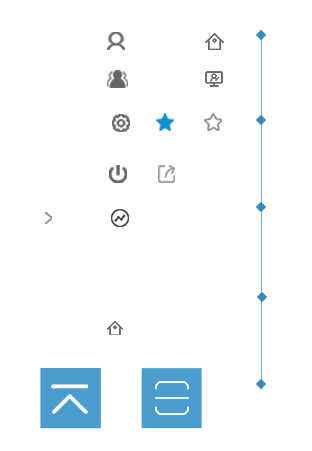
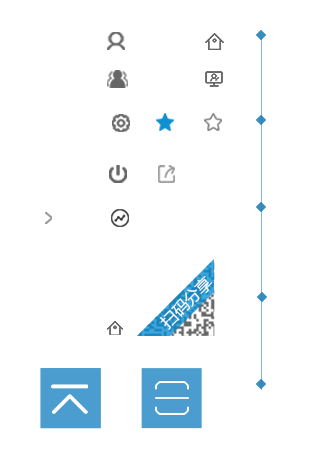
完成团队信息的样式

Changed region(s): [[0.4327, 0.5588, 0.6923, 0.745]]

diff --git a/_template/pl/fe/site/page/home/basic.css b/_template/pl/fe/site/page/home/basic.css
@@ -1,4 +1,4 @@
-.carousel{background:#fff;margin-bottom:15px;position:relative;}
+.carousel{background:#fff;position:relative;}
 .carousel-inner:before{content:'';position: absolute;top:0;left:0;z-index: 1;width:100%;height:100%;background: linear-gradient(to bottom, rgba(0,0,0,0) 85%, rgba(0,0,0,0.6));}
 @media screen and (min-width: 768px){.carousel-indicators {bottom:0px;}}
 .carousel-indicators li{margin:0 10px 0 0;border-radius:0;background-color:#a3cfe2;border:0;}
@@ -6,6 +6,23 @@
 .carousel-indicators .active:after{content:'';width:4px;height:4px;background-color:#a3cfe2;position:absolute;top:50%;left:50%;margin-left:-2px;margin-top:-2px;}
 .carousel-control.left{background-image:none;z-index: 2;}
 .carousel-control.right{background-image:none;z-index: 2;}
+
+
+/* tem-info */
+.team-info{position: relative;padding:35px 10px 50px 55px;margin-bottom: 10px;box-shadow:0 0 5px rgba(0, 204, 204, .5);overflow: hidden;}
+.team-img{width:17%;margin-right:5%;}
+.team-content{width:60%;overflow:hidden;}
+.team-handel{width:18%;}
+.team-content > .team-text{padding:20px 0;overflow:hidden;}
+.team-text > h4{font-weight:800;}
+.team-content > .team-summary{font-size:14px;color:#333;line-height:1.8;margin-top: 6%;}
+.btn-warning{color: #fff;background-color: #ffb400;border-color: #ffb400;box-shadow:0 0 10px 2px #ffb400;}
+.btn-primary{color: #fff;background-color: #0080ff;border-color: #0080ff;box-shadow:0 0 10px 2px #0080ff;}
+.btn-custom{font-size:18px;font-weight:600;padding:5px 20px;border-radius: 50em;margin-left: 10px;}
+.btn:focus,.btn:active:focus{outline: none;}
+.xxt_scan{cursor:pointer;width:77px;height:77px;bottom:0;right:0;background-position: -137px -259px;}
+.team-qrcode{position: absolute;right:-110px;bottom:0;}
+
 
 /* tab-page */
 #home .media-object{width:210px;height:120px;}
@@ -28,7 +45,8 @@
 
 
 /* aside */
-.mainSide{padding:1em;margin-bottom: 20px;}
+#aside{padding-right: 0px;}
+.mainSide{padding:1em 0 1em 1em;margin-bottom: 20px;}
 .mainSide-header{position: relative;margin-bottom: 40px;padding-left: 30px;}
 .mainSide-header > h4{display: inline-block;margin: 0 0;}
 .mainSide-header > small > a {color: #999;font-size:14px;position: relative;padding-right: 20px;}
@@ -37,6 +55,13 @@ a.list-group-item:hover, a.list-group-item:focus {text-decoration: none;color: #
 .xxt_guide{top:0;left:0;background-position: -111px -209px;}
 .xxt_chevron-right{top:-1px;right:-5px;background-position: -43px -207px;}
 .xxt_line{width:10px;height:85px;position:absolute;top:-10px;left:5px;background-position: -256px -30px;}
+
+
+/* loadMore */
+.btn{border:none;}
+.btn-lg{padding:10px 80px;}
+.btn-gradient{background: linear-gradient(to right, #7AC7F3 , #268ECA);}
+
 
 /*template/matter*/
 .template{position:relative;height:200px;cursor:pointer;display:flex;flex-direction:column;padding:15px;}

diff --git a/_template/pl/fe/site/page/home/basic.html b/_template/pl/fe/site/page/home/basic.html
@@ -13,20 +13,26 @@
     </div>
     <div class='row'>
             <div class='col-md-12'>
-                <div class="media">
-                    <div class="media-left">
+                <div class="team-info">
+                    <div class="team-img pull-left">
                         <img class="img-circle" style="width:200px;height:200px"ng-src='{{site.heading_pic}}'>
                     </div>
-                    <div class="media-body">
-                        <div class="media-heading">
-                            <h4>{{site.name}}</h4>
-                            <form class="navbar-form pull-right ng-cloak" ng-cloak style='margin-right:0'>
-                                <button class="btn btn-success" ng-click="subscribeSite()">关注</button>
-                                <button class="btn btn-success" ng-click="contributeSite()">投稿</button>
-                            </form>
+                    <div class="team-content pull-left">
+                        <div class="team-text">
+                            <h4 class="media-heading pull-left">{{site.name}}</h4>
                         </div>
-                        <div class="media-summary">{{site.summary}}</div>
+                        <div class="team-summary">{{site.summary}}</div>
                     </div>
+                    <div class="team-handel pull-left">
+                        <form class="navbar-form ng-cloak" ng-cloak style='margin-right:0'>
+                            <button class="btn btn-warning btn-custom" ng-click="subscribeSite()">关注</button>
+                            <button class="btn btn-primary btn-custom" ng-click="contributeSite()">投稿</button>
+                        </form>
+                    </div>
+                    <span ng-mouseenter="hover=true" ng-mouseleave="hover=false" class="site_fe_home site_fe_home_icon xxt_scan"></span>
+                </div>
+                <div class="team-qrcode" ng-if="hover">
+                    <img ng-src="{{entry.qrcode}}" />
                 </div>
             </div>
         </div>
@@ -78,7 +84,7 @@
                     </uib-tab>
                 </uib-tabset>
             </div>
-            <aside class="col-md-4 col-xs-12 pull-right">
+            <aside id="aside" class="col-md-4 col-xs-12 pull-right">
                 <div class="mainSide" ng-repeat="r in r_channels">
                     <div class="mainSide-header">
                         <span class="site_fe_home site_fe_home_icon xxt_guide"></span>

diff --git a/views/default/site/home.tpl.htm b/views/default/site/home.tpl.htm
@@ -65,19 +65,6 @@
             </div>
         </div>
     </nav>
-    <!-- <div class='container'>
-        <div class='row'>
-            <div class='col-md-12'>
-                <nav class='navbar navbar-default'>
-                    <p class="navbar-text" ng-bind="site.name"></p>
-                    <form class="navbar-form navbar-right ng-cloak" ng-cloak style='margin-right:0'>
-                        <button class="btn btn-success" ng-click="subscribeSite()">关注</button>
-                        <button class="btn btn-success" ng-click="contributeSite()">投稿</button>
-                    </form>
-                </nav>
-            </div>
-        </div>
-    </div> -->
     <div id="content" class="home" dynamic-html='page.html' ng-cloak class='ng-cloak' auto-height></div>
     <nav class="navbar navbar-inverse">
         <div class="container">

diff --git a/_template/pl/fe/site/page/home/basic.js b/_template/pl/fe/site/page/home/basic.js
@@ -1,7 +1,12 @@
 ngApp.provider.controller('ctrlHome', ['$scope', '$http', 'tmsFavor', 'tmsForward', 'tmsDynaPage', function($scope, $http, tmsFavor, tmsForward, tmsDynaPage) {
     var ls = location.search,
         siteId = ls.match(/site=([^&]*)/)[1],
-        page;
+        page, entry, url;
+    url = 'http://' + location.host + '/rest/site/home?site=' + siteId;
+    $scope.entry = entry = {
+        url: url,
+        qrcode: '/rest/pl/fe/site/qrcode?site=' + siteId + '&url=' + encodeURIComponent(url)
+    }
     $scope.cTotal = [];
     $scope.siteId = siteId;
     $scope.page = page = {
